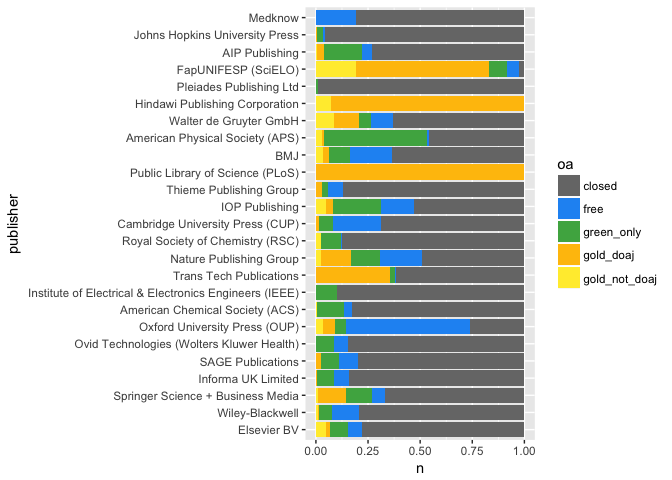
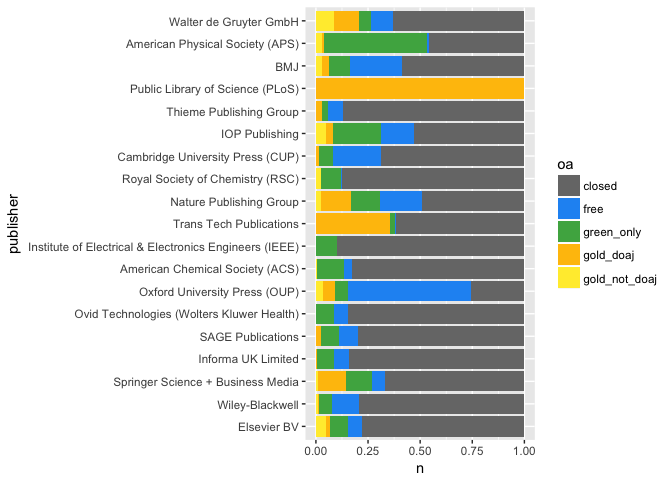
more words.

Changed region(s): [[0.0312, 0.0, 0.7812, 0.9062]]

diff --git a/oa_analysis.md b/oa_analysis.md
@@ -21,13 +21,19 @@ articles_all %>% count(oa) %>% mutate(proportion=n/sum(n))
     ## # A tibble: 5 × 3
     ##              oa     n proportion
     ##          <fctr> <int>      <dbl>
-    ## 1        closed 76854 0.76973309
-    ## 2          free 11232 0.11249437
-    ## 3    green_only  6264 0.06273724
+    ## 1        closed 76758 0.76877160
+    ## 2          free 11300 0.11317542
+    ## 3    green_only  6293 0.06302769
     ## 4     gold_doaj  3559 0.03564525
-    ## 5 gold_not_doaj  1936 0.01939005
+    ## 5 gold_not_doaj  1935 0.01938004
 
--   insert definitions of our colors here...see the email for now \*
+Category definitions:
+
+-   *closed*: We could not find a free fulltext copy.
+-   *free*: There is a free-to-read copy on the publisher page, but no license is given and the journal is not in DOAJ.
+-   *green\_only*: The article is Green OA. There is a fulltext copy of the article in one or more open repositories, but not on the publisher page.
+-   *gold\_doaj* The article is Gold OA. There is a copy on the publisher page, and the journal is listed in the DOAJ.
+-   *gold\_not\_doaj*: The article is Gold OA. There is a copy on the publisher page, under a Creative Commons license.
 
 So, about 23% of the DOI-assigned literature is available to read. Given that we’re sampling from 65,838,767 total journal articles with a Crossref DOI, that means we can estimate there are *at least* 65838767 \* 0.232 = 15274594 free-to-read articles (15.2 million).
 
@@ -103,7 +109,7 @@ The proportion of OA is growing, too--not just the absolute amounts.
 \# Publishers
 =============
 
-Let's look at publishers. We'll subset the years even further, so we can look at the more up-to-date picture that may include OA publishers.
+Let's look at publishers. We'll subset the years more tightly and just look at articles since 2009. This will let us look at the more up-to-date picture that may include OA publishers.
 
 ``` r
 articles_recent = articles_all %>% filter(is_modern, year >= 2009)
@@ -138,13 +144,15 @@ publishers_oa %>% slice(1:80) %>% ggplot(aes(x=publisher, y=n, fill=oa)) +
 ``` r
 #same thing but by % oa
 
-publishers_oa %>% slice(1:100) %>% ggplot(aes(x=publisher, y=n, fill=oa)) + 
+publishers_oa %>% slice(1:80) %>% ggplot(aes(x=publisher, y=n, fill=oa)) + 
   geom_bar(stat="identity", position="fill") + 
   coord_flip() +
   oa_color_map
 ```
 
 ![](oa_analysis_files/figure-markdown_github/unnamed-chunk-7-2.png)
+
+From this we can see that Elsevier is massively outpublishing anyone else. Because of this, they are also publishing more open-access content than any other single publisher. However, in percentage terms other publshers are doing much better at making content open. Unsurprisingly, the American Physical Society stands out as having more Green OA than other publishers in percentage terms, because of the prevelance of the ArXiv in Physics. PLOS stands out as the only open-access-only publisher in the list of top publishers.
 
 \# Repositories
 ===============
@@ -171,7 +179,7 @@ found_green_freq_by_year %>% ggplot(aes(x=year, y=perc, fill=found_green)) + geo
 
 ![](oa_analysis_files/figure-markdown_github/unnamed-chunk-9-1.png)
 
-A different question is to dig into which repositories are contributing to making papers available.
+A different question is to dig into which repositories are contributing to making papers available. We know that PubMed Central and the ArXiv are both very popular repositories, so we will plot them seperately. We'll combine all other repositories, including the thousands of institutional repositories, into a single category for now. As a reminder, we are only looking here at articles that are *only* available from a green repository.
 
 We can see in the graphs at
 
@@ -191,6 +199,21 @@ articles_all %>% filter(is_modern) %>% filter(!is.na(repo)) %>% ggplot(aes(x=yea
 
 ![](oa_analysis_files/figure-markdown_github/unnamed-chunk-10-1.png)
 
+Again, it apprears that multi-year embargoes maybe affecting PMC. Regardless of this, PMC remains by far the most significant green repository, and a very important source of fulltext that would be otherwise unavailable.
+
+``` r
+articles_all %>% filter(year > 2009, oa=="green_only") %>% count(repo) %>% mutate(proportion=n/sum(n))
+```
+
+    ## # A tibble: 3 × 3
+    ##     repo     n proportion
+    ##   <fctr> <int>      <dbl>
+    ## 1    PMC  1170  0.4277879
+    ## 2  other  1156  0.4226691
+    ## 3  arXiv   409  0.1495430
+
+That said, smaller repositories are still making a significant contribution to Green OA, particularly in recent years. for articles published since 2009, the contribute about as much as PMC (42%).
+
 \# By license
 =============
 
@@ -200,7 +223,7 @@ What are the most common licenses for open-access papers?
 articles_all %>% filter(is_modern) %>% filter(grepl('cc', license)) %>% ggplot(aes(x=year, fill=license)) + geom_bar(width=1, position="fill") 
 ```
 
-![](oa_analysis_files/figure-markdown_github/unnamed-chunk-11-1.png) It looks like there has been steady growth in the number of articles licensed with the CC-BY license, largely at the expense of the CC-BY-NC license.
+![](oa_analysis_files/figure-markdown_github/unnamed-chunk-12-1.png) It looks like there has been steady growth in the number of articles licensed with the CC-BY license, largely at the expense of the CC-BY-NC license.
 
 Let's also look at CC licenses by type of OA
 
@@ -208,7 +231,7 @@ Let's also look at CC licenses by type of OA
 articles_all %>% filter(is_modern) %>% filter(oa != "closed", oa != "free") %>% ggplot(aes(x=oa,  fill=license)) + geom_bar(width=1, position="fill") 
 ```
 
-![](oa_analysis_files/figure-markdown_github/unnamed-chunk-12-1.png) Most repositories do not note the license of the work, so green\_only is surely an undercount. It's interesting to see that DOAJ journals are more likely to use the more permissive CC-BY license.
+![](oa_analysis_files/figure-markdown_github/unnamed-chunk-13-1.png) Most repositories do not note the license of the work, so green\_only is surely an undercount. It's interesting to see that DOAJ journals are more likely to use the more permissive CC-BY license. This graph needs different colors, so that license=NA is shown as gray.
 
 \# By discipline
 ================
@@ -255,7 +278,7 @@ articles_accessed %>% count(oa) %>% mutate(proportion=n/sum(n))
 articles_accessed %>% ggplot(aes(x="", fill=oa)) + geom_bar() + oa_color_map_accessed
 ```
 
-![](oa_analysis_files/figure-markdown_github/unnamed-chunk-13-1.png)
+![](oa_analysis_files/figure-markdown_github/unnamed-chunk-14-1.png)
 
 ``` r
 articles_accessed = articles_accessed %>% mutate(is_modern = year >= 1990 & year <= 2015)
@@ -274,7 +297,7 @@ articles_accessed %>% filter(is_modern) %>%
     ggplot(aes(x=year, fill=oa)) + geom_bar(width=1) + oa_color_map_accessed
 ```
 
-![](oa_analysis_files/figure-markdown_github/unnamed-chunk-13-2.png)
+![](oa_analysis_files/figure-markdown_github/unnamed-chunk-14-2.png)
 
 ``` r
 oa_freq_by_year = articles_accessed %>% filter(is_modern) %>% count(year, oa) %>%  
@@ -284,7 +307,7 @@ oa_freq_by_year = articles_accessed %>% filter(is_modern) %>% count(year, oa) %>
 oa_freq_by_year %>% ggplot(aes(x=year, y=perc, fill=oa)) + geom_area() + oa_color_map_accessed
 ```
 
-![](oa_analysis_files/figure-markdown_github/unnamed-chunk-13-3.png)
+![](oa_analysis_files/figure-markdown_github/unnamed-chunk-14-3.png)
 
 \# OA and citation patterns
 ===========================
